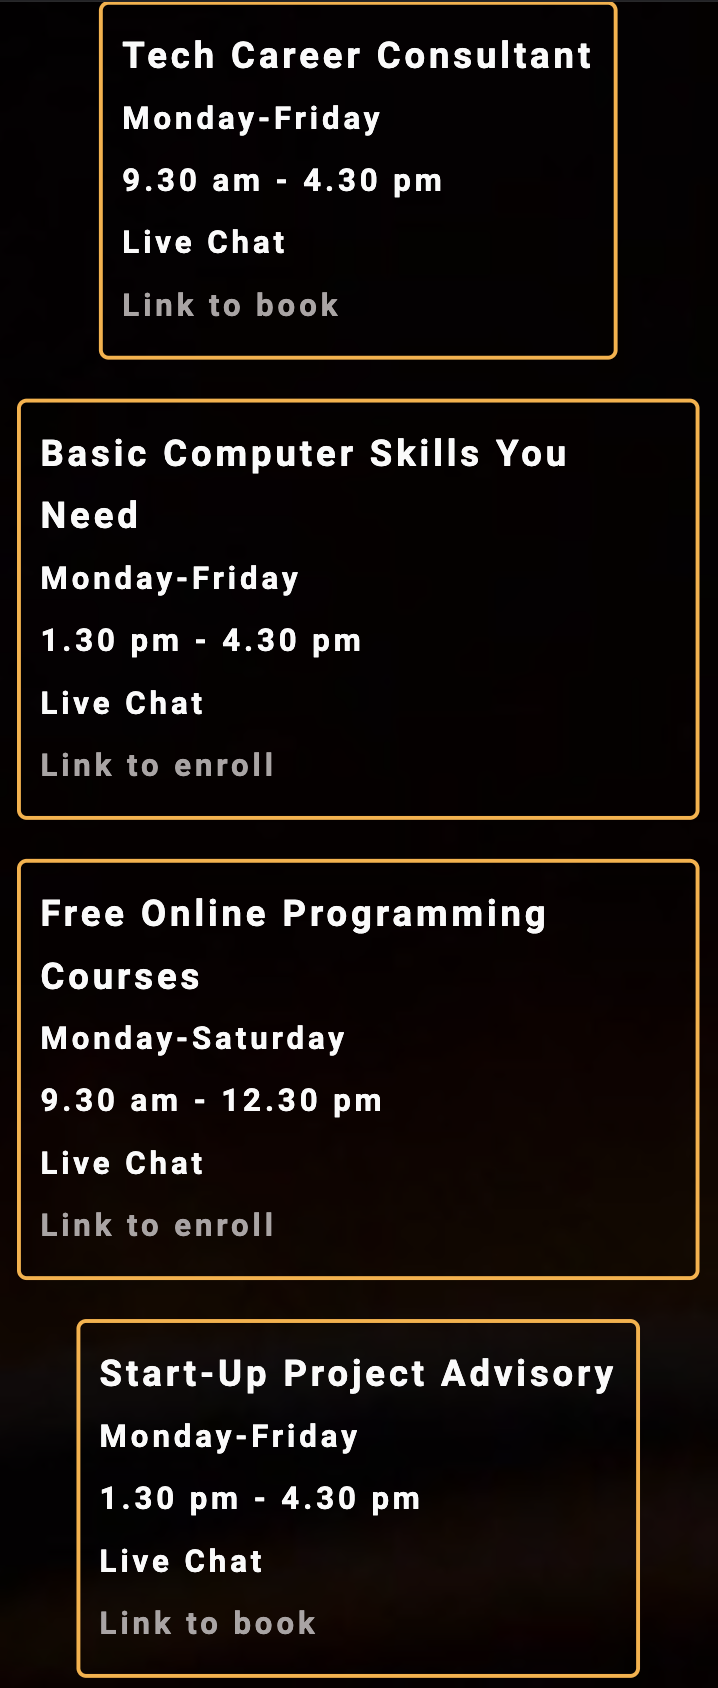
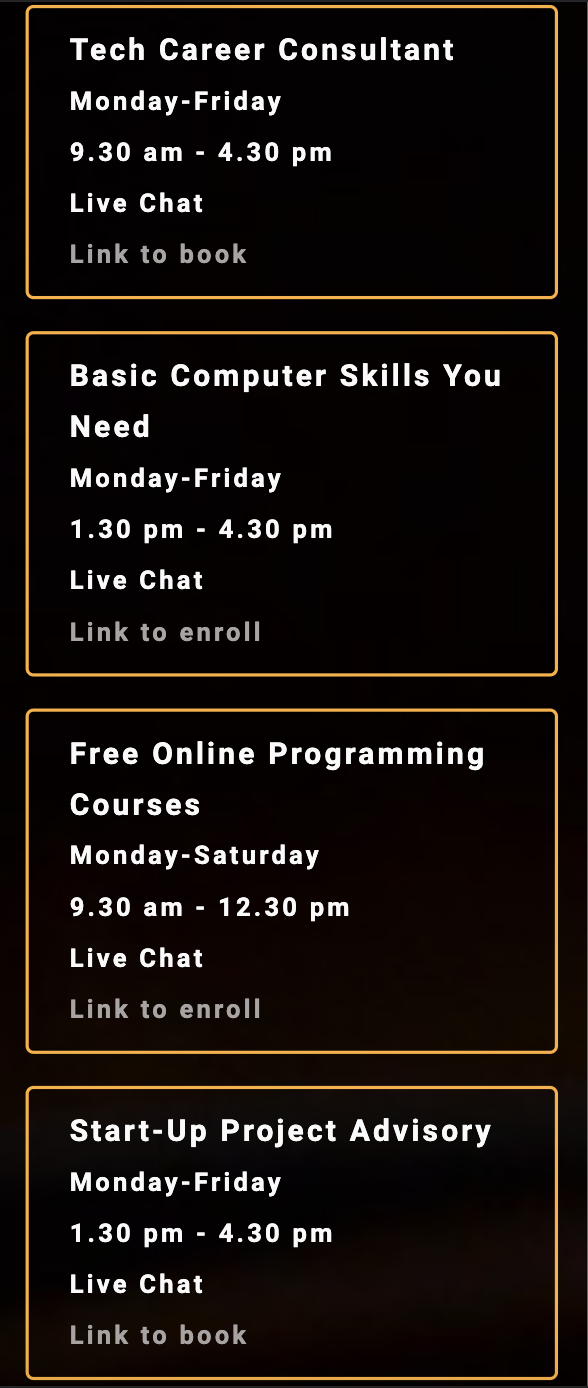
Add README.MD file

Changed region(s): [[0.0, 0.0, 1.0, 1.0]]

diff --git a/assets/css/style.css b/assets/css/style.css
@@ -749,13 +749,14 @@ textarea:focus {
 }
 /* header nav end here*/
 
+
 @media screen and (max-width: 70rem) {
   .body-container {
     height: 100vh;
     padding: 10px;
   }
   h1 {
-    font-size: 32px;
+    font-size: 2.8rem;
     margin-left: 35px;
     margin-top: 0;
   }
@@ -774,9 +775,15 @@ textarea:focus {
     display: flex;
     flex-direction: column;
   }
+  .main-weekly-agenda-template {
+    width: 90%;
+    padding-left: 1.6em;
+  }
+ 
   .main-testimonials-template-list {
     display: flex;
     flex-direction: column;
+    width:100%;
   }
 
   .footer-container-template {

diff --git a/README.md b/README.md
@@ -70,7 +70,7 @@ The website is responsive when it is on mobile view.
        ![Mobile home page](documentation/mobile_home_page7.png)
         ![Mobile home page](documentation/mobile_home_page8.png)
 
-     - **On desktop**
+   - **On desktop**
      ![Desktop home page1](documentation/desktop_home_page1.png)
 ![Desktop home Page2](documentation/desktop_home_page2.png)
 ![Desktop home page3](documentation/desktop_home_page3.png)
